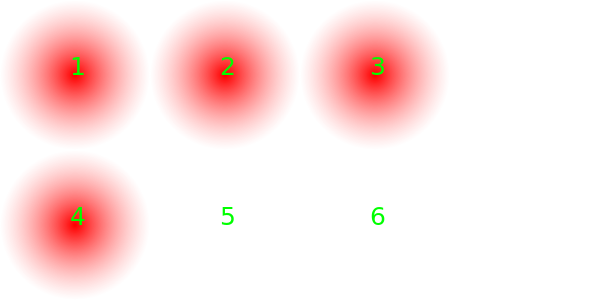
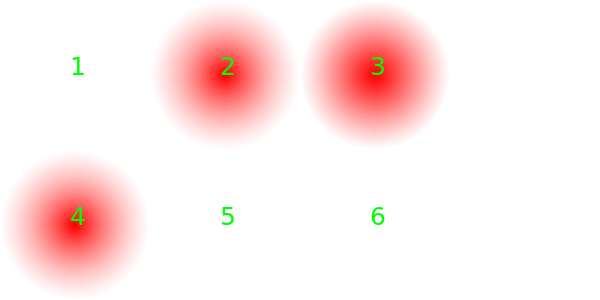
Bug fix

Changed region(s): [[0.0, 0.03, 0.24, 0.48], [0.57, 0.12, 0.69, 0.39]]

diff --git a/routes/alert.js b/routes/alert.js
@@ -155,6 +155,101 @@ exports.editAlert = function(req, res){
 					if(err){
 						console.log(err)
 						res.send(resGen.responseGenerator(400,null));
+						// Grab the Canvas and Drawing Context
+						//var canvas = document.getElementById('c');
+						//var ctx = canvas.getContext('2d');
+						ctx.fillStyle = "rgba(255, 255, 255, 1)";
+						ctx.fillRect(0, 0, 600, 300);
+
+
+						function circle(x, y, r, c) {
+						  ctx.beginPath();
+						  var rad = ctx.createRadialGradient(x, y, 1, x, y, r);
+						  rad.addColorStop(0, c);
+						  rad.addColorStop(1, 'rgba(255, 255, 255, 0.5)');
+						  ctx.fillStyle = rad;
+						  //gradient.addColorStop(0,"white");
+						  //gradient.addColorStop(1,"green");
+						  //ctx.fillStyle = gradient;
+						  ctx.arc(x, y, r, 0, Math.PI * 2, false);
+						  ctx.fill();
+						}
+						var x,y,beacon;
+						for(result in results){
+							beacon = results[result].beacon;						
+							if(beacon<4){
+								y=75;
+							}else{
+								y=225;
+							}
+							if(beacon%3 == 1){x=75;}
+							else if(beacon%3 == 2){x=225;}
+							else {x=375;}
+							//console.log(x+" "+y+" beacon:"+beacon);
+							circle(x,y,75,'red');
+						}
+						for(i=1;i<7;i++){
+							ctx.font = '25px Impact';
+							//ctx.rotate(.1);
+							if(i<4){ y=75 } else { y=225 }					
+							if(i%3==1){x=70} else if(i%3==2){x=220} else {x=370}	
+							//console.log(i+"x :: "+x+" y::"+y);
+							ctx.fillStyle = "#00ff00";  //<======= and here
+
+							ctx.fillText(i, x, y);
+						}
+					
+						//circle(75, 75, 75, 'red');
+						//circle(225, 75, 75, 'red');
+						//circle(375, 75, 75, 'red');
+						//circle(75, 225, 75, 'red');
+						//circle(225, 225, 75, 'red');
+						//circle(375, 225, 75, 'red');
+
+						//circle(75, 75, 75, 'yellow');
+
+						ctx.save();
+						//var img = document.createElement('IMG');
+						//img.src = "E:/user.jpg";
+						//ctx.drawImage(img, 10, 10);
+						//	ctx.fillStyle = "rgba(255, 255, 255, 0.5)";  
+						//		ctx.fillRect(50, 0, 50, 50);
+
+						//ctx.font = '30px Impact';
+						//ctx.rotate(.1);
+						//ctx.fillText("Awesome!", 50, 100);
+
+						//var te = ctx.measureText('Awesome!');
+						//ctx.strokeStyle = 'rgba(0,0,0,0.5)';
+						//ctx.beginPath();
+						//ctx.lineTo(50, 102);
+						//ctx.lineTo(50 + te.width, 102);
+						//ctx.stroke();
+						//var lingrad = ctx.createLinearGradient(0,0,0,150);
+						//lingrad.addColorStop(0, '#00ABEB');
+						//lingrad.addColorStop(0.5, '#fff');
+						//lingrad.addColorStop(0.5, '#26C000');
+						//lingrad.addColorStop(1, '#fff');
+
+						//var lingrad2 = ctx.createLinearGradient(0,50,0,95);
+						//lingrad2.addColorStop(0.5, '#000');
+						//lingrad2.addColorStop(1, 'rgba(0,0,0,0)');
+
+						// assign gradients to fill and stroke styles
+						//ctx.fillStyle = lingrad;
+						//ctx.strokeStyle = lingrad2;
+
+						// draw shapes
+						//ctx.fillRect(10,10,130,130);
+						//ctx.strokeRect(50,50,50,50);
+
+						var out = fs.createWriteStream(__dirname + '/gradients.png')
+						  , stream = canvas.createPNGStream();
+
+						stream.on('data', function(chunk){
+						  out.write(chunk);
+						});
+
 					}
 				});
 				console.log(result);

diff --git a/routes/boarding.js b/routes/boarding.js
@@ -40,10 +40,11 @@ exports.passPage = function(req, res){
 
 	Boarding.find({}, function(err, passengers){
 		console.log(passengers);
+		
 		res.render('boarding-pass',{user: req.session.user, passengers: passengers});
+
 	});
 }
-
 exports.removePage = function(req, res){
 	console.log('add');
 
@@ -62,7 +63,11 @@ exports.removePass = function(req, res){
 
 exports.info = function(req, res){
 	console.log(req.param('id'));
-	Boarding.findOne({conf: req.param('id')}, function(err, info){
-		res.end(JSON.stringify(info));
-	})
+	var data = {feed:[]},feed;
+	Boarding.findOne({conf: req.param('id')}, function(err, feed){
+		data.feed.push(feed);	
+		//data.push(feed);
+		console.log(data);
+		res.send(data);
+	});
 }

diff --git a/app.js b/app.js
@@ -73,7 +73,7 @@ app.get('/boarding/pass', boarding.passPage);
 app.get('/boarding/remove', boarding.removePage);
 app.post('/boarding/remove', boarding.removePass);
 
-app.post('/boarding', boarding.info);
+app.get('/boarding', boarding.info);
 
 app.get('/login', login.signIn);
 app.get('/signup', login.signUp);
